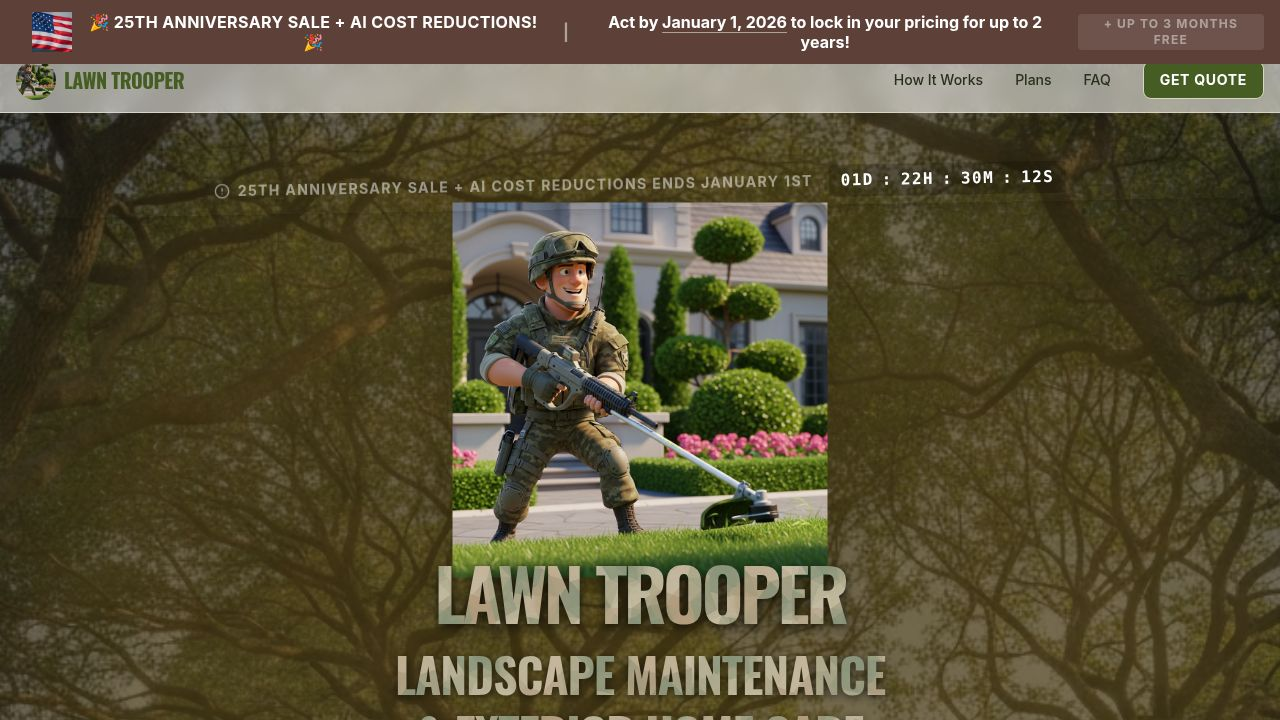
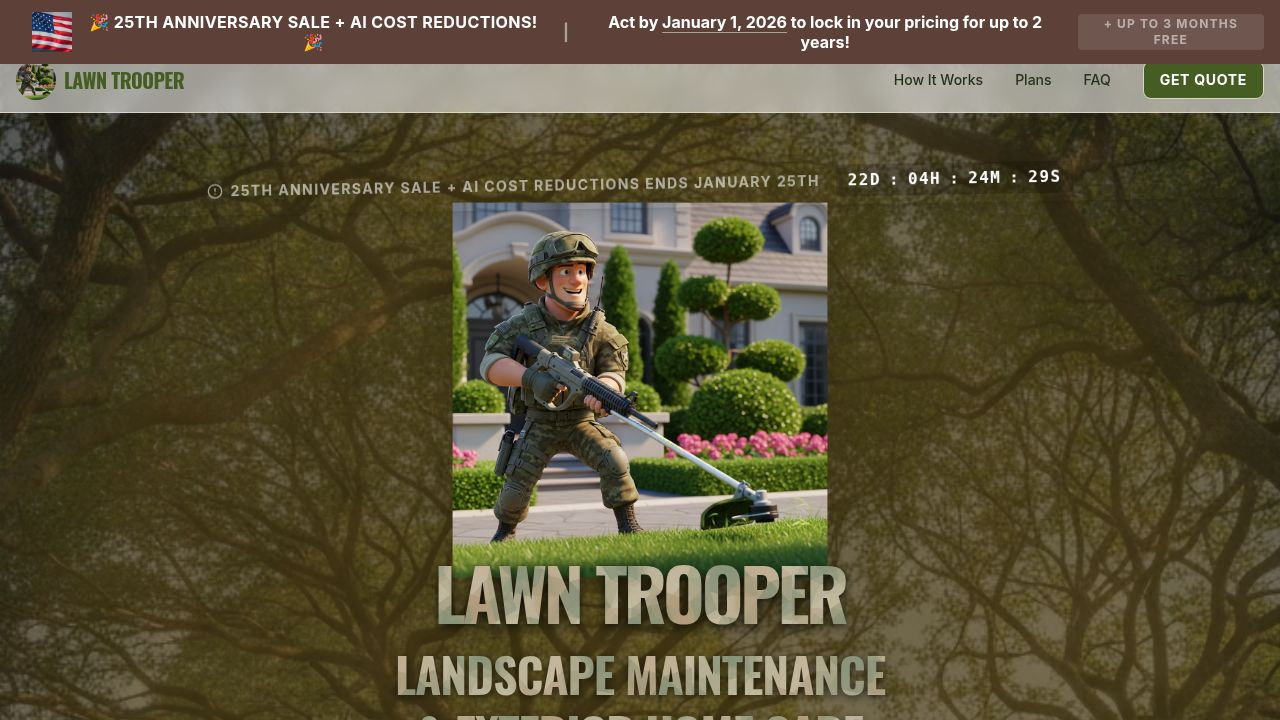
Update quote request form and email notifications
Refactors the quote request form to include plan details and updates email notifications to reflect selected services. Validates phone number based on contact method.

Replit-Commit-Author: Agent
Replit-Commit-Session-Id: 98804751-9cd9-4bf8-8eb9-a989a7d65f20
Replit-Commit-Checkpoint-Type: intermediate_checkpoint
Replit-Commit-Event-Id: 8e6d4bb4-b863-4e94-832b-a26821d565bf
Replit-Commit-Screenshot-Url: https://storage.googleapis.com/screenshot-production-us-central1/272d6f3a-6d6e-4d82-9048-783487746b88/98804751-9cd9-4bf8-8eb9-a989a7d65f20/drhmOI9
Replit-Helium-Checkpoint-Created: true

Changed region(s): [[0.1562, 0.2139, 0.8438, 0.275]]

diff --git a/server/email.ts b/server/email.ts
@@ -21,6 +21,36 @@ function getResendClient() {
   };
 }
 
+// Plan name mapping
+const PLAN_NAMES: Record<string, string> = {
+  basic: "Basic Patrol",
+  premium: "Premium Patrol",
+  executive: "Executive Patrol"
+};
+
+// Add-on label mapping
+const ADDON_LABELS: Record<string, string> = {
+  extra_bush_trimming: "Extra Bush Trimming",
+  shrub_fertilization: "Shrub Fertilization / Diseased Plant Application",
+  irrigation_check: "Full Irrigation Check/Diagnosis + Seasonal Activation & Winterization",
+  fire_ant_app: "Quarterly Fire Ant Applications",
+  quarterly_trash_bin_cleaning: "Quarterly Trash Bin Cleaning",
+  gutter_cleaning_first_floor: "Gutter Cleaning (First Floor Only)",
+  mulch_delivery_install_2yards: "Mulch Delivery + Installation (Up to 3 Yards)",
+  pine_straw_delivery_install_3yards: "Pine Straw Delivery + Installation (Up to 4 Yards)",
+  basic_flower_install: "Basic Flower Install (Fall Only)",
+  basic_christmas_lights: "Basic Christmas Light Package",
+  extra_weed_control: "Extra Weed Control + Fire Ant",
+  pest_control: "Quarterly Pest Control Applications",
+  aeration_overseeding: "Aeration + Overseeding",
+  pressure_washing: "Driveway & Sidewalk Pressure Washing",
+  mulch_delivery_install_over2yards: "Mulch Delivery + Installation (Up to 8 Yards)",
+  pine_straw_delivery_install_over3yards: "Pine Straw Delivery + Installation (Up to 10 Yards)",
+  premium_flower_install: "Premium Flower Install (Spring or 2 Seasons)",
+  bimonthly_trash_bin_cleaning: "Monthly Trash Bin Cleaning",
+  christmas_lights_premium: "Christmas Light Premium Package"
+};
+
 export interface QuoteRequestData {
   name: string;
   email: string;
@@ -28,20 +58,34 @@ export interface QuoteRequestData {
   address: string;
   contactMethod: string;
   notes?: string;
+  yardSize: string;
+  plan: string;
+  basicAddons: string[];
+  premiumAddons: string[];
+}
+
+function formatAddons(addons: string[]): string {
+  if (!addons || addons.length === 0) return "None selected";
+  return addons.map(id => ADDON_LABELS[id] || id).join(", ");
 }
 
 export async function sendQuoteEmails(data: QuoteRequestData) {
   const { client, fromEmail } = getResendClient();
+
+  const planName = PLAN_NAMES[data.plan] || data.plan;
+  const basicAddonsFormatted = formatAddons(data.basicAddons);
+  const premiumAddonsFormatted = formatAddons(data.premiumAddons);
 
   // Email to Lawn Trooper (using verified email until domain is set up)
   // Change to 'lawntrooperllc@gmail.com' once domain is verified
   const businessEmail = {
     from: fromEmail,
     to: 'jclaxtonlandscapes@gmail.com',
-    subject: `New Quote Request from ${data.name}`,
+    subject: `New Quote Request from ${data.name} - ${planName}`,
     html: `
       <h2>New Quote Request</h2>
-      <p><strong>Customer Information:</strong></p>
+      
+      <h3 style="color: #2E7D32; border-bottom: 2px solid #2E7D32; padding-bottom: 8px;">Customer Information</h3>
       <ul>
         <li><strong>Name:</strong> ${data.name}</li>
         <li><strong>Email:</strong> ${data.email || 'Not provided'}</li>
@@ -50,10 +94,18 @@ export async function sendQuoteEmails(data: QuoteRequestData) {
         <li><strong>Preferred Contact:</strong> ${data.contactMethod}</li>
       </ul>
       
-      ${data.notes ? `<p><strong>Special Instructions / Notes:</strong><br/>${data.notes}</p>` : ''}
+      <h3 style="color: #5D4037; border-bottom: 2px solid #5D4037; padding-bottom: 8px;">Selected Plan Details</h3>
+      <ul>
+        <li><strong>Yard Size:</strong> ${data.yardSize} Acre</li>
+        <li><strong>Plan:</strong> ${planName}</li>
+        <li><strong>Basic Add-ons:</strong> ${basicAddonsFormatted}</li>
+        <li><strong>Premium Add-ons:</strong> ${premiumAddonsFormatted}</li>
+      </ul>
+      
+      ${data.notes ? `<h3 style="color: #666;">Special Instructions / Notes</h3><p>${data.notes}</p>` : ''}
       
       <p style="margin-top: 20px; padding: 10px; background: #f5f5f5; border-radius: 4px;">
-        <strong>Next Steps:</strong> Contact this customer to schedule a consultation and discuss plan options.
+        <strong>Next Steps:</strong> Contact this customer to schedule a consultation and finalize their plan.
       </p>
       
       <p style="margin-top: 20px; color: #666; font-size: 12px;">
@@ -70,23 +122,23 @@ export async function sendQuoteEmails(data: QuoteRequestData) {
     html: `
       <h2>Thank you for your quote request!</h2>
       <p>Hi ${data.name},</p>
-      <p>We've received your request for lawn care services. Our Account Commander will review your property information and contact you shortly via your preferred method (${data.contactMethod}) to schedule a consultation.</p>
+      <p>We've received your request for lawn care services. Our Account Commander will review your information and contact you shortly via your preferred method (${data.contactMethod}) to schedule a consultation.</p>
       
-      <p><strong>Your Request Summary:</strong></p>
+      <h3 style="color: #2E7D32; border-bottom: 2px solid #2E7D32; padding-bottom: 8px;">Your Selected Plan</h3>
       <ul>
         <li><strong>Address:</strong> ${data.address}</li>
-        <li><strong>Preferred Contact:</strong> ${data.contactMethod}</li>
+        <li><strong>Yard Size:</strong> ${data.yardSize} Acre</li>
+        <li><strong>Plan:</strong> ${planName}</li>
+        <li><strong>Basic Add-ons:</strong> ${basicAddonsFormatted}</li>
+        <li><strong>Premium Add-ons:</strong> ${premiumAddonsFormatted}</li>
       </ul>
       
-      <p>During your consultation, we'll discuss:</p>
-      <ul>
-        <li>Your property size and specific needs</li>
-        <li>The best plan for your yard (Basic, Premium, or Executive)</li>
-        <li>Available add-on services</li>
-        <li>Current promotional offers</li>
-      </ul>
+      <p style="margin-top: 20px; padding: 15px; background: #E8F5E9; border-radius: 8px; border-left: 4px solid #2E7D32;">
+        <strong>What's Next?</strong><br/>
+        During your consultation, we'll confirm your yard size, discuss any special needs, and finalize your plan. Current promotional offers will be applied at signup!
+      </p>
       
-      <p>We typically respond within 24 hours. If you have any urgent questions, feel free to call us directly.</p>
+      <p>We typically respond within 24 hours. If you have any urgent questions, feel free to contact us directly.</p>
       
       <p>Thank you for choosing Lawn Trooper!</p>
       
@@ -103,6 +155,7 @@ export async function sendQuoteEmails(data: QuoteRequestData) {
     console.log('From email:', fromEmail);
     console.log('To business:', businessEmail.to);
     console.log('To customer:', customerEmail?.to || 'No email provided');
+    console.log('Plan data:', { yardSize: data.yardSize, plan: data.plan, basicAddons: data.basicAddons, premiumAddons: data.premiumAddons });
     
     // Always send business email
     const businessResult = await client.emails.send(businessEmail);

diff --git a/client/src/pages/home.tsx b/client/src/pages/home.tsx
@@ -1,4 +1,4 @@
-import { useState, useEffect } from "react";
+import React, { useState, useEffect } from "react";
 import { motion, AnimatePresence } from "framer-motion";
 import { useForm } from "react-hook-form";
 import { z } from "zod";
@@ -169,6 +169,11 @@ const formSchema = z.object({
   phone: z.string().optional(),
   email: z.string().email("Please enter a valid email address").or(z.literal("")),
   notes: z.string().optional(),
+  // Plan selection fields
+  yardSize: z.string(),
+  plan: z.string(),
+  basicAddons: z.array(z.string()),
+  premiumAddons: z.array(z.string()),
 }).superRefine((data, ctx) => {
   if ((data.contactMethod === "text" || data.contactMethod === "phone") && !data.phone) {
     ctx.addIssue({
@@ -213,8 +218,20 @@ export default function LandingPage() {
       address: "",
       contactMethod: "email",
       notes: "",
+      yardSize: builderYardSize,
+      plan: builderPlan,
+      basicAddons: builderBasicAddons,
+      premiumAddons: builderPremiumAddons,
     },
   });
+  
+  // Keep form in sync with plan builder selections
+  React.useEffect(() => {
+    form.setValue("yardSize", builderYardSize);
+    form.setValue("plan", builderPlan);
+    form.setValue("basicAddons", builderBasicAddons);
+    form.setValue("premiumAddons", builderPremiumAddons);
+  }, [builderYardSize, builderPlan, builderBasicAddons, builderPremiumAddons, form]);
 
   const selectedContactMethod = form.watch("contactMethod");
 
@@ -247,7 +264,16 @@ export default function LandingPage() {
           address: "",
           contactMethod: "email",
           notes: "",
+          yardSize: "1/3",
+          plan: "basic",
+          basicAddons: [],
+          premiumAddons: [],
         });
+        // Reset plan builder state
+        setBuilderYardSize("1/3");
+        setBuilderPlan("basic");
+        setBuilderBasicAddons([]);
+        setBuilderPremiumAddons([]);
       } else {
         toast({
           title: "Error",
@@ -289,7 +315,7 @@ export default function LandingPage() {
            </div>
            <span className="uppercase tracking-wide md:pl-16">🎉 25th Anniversary Sale + AI Cost Reductions! 🎉</span>
            <span className="hidden md:inline mx-2 text-white/50">|</span>
-           <span>Act by <span className="underline decoration-white/50 underline-offset-4">January 1, 2026</span> to lock in your pricing for up to 2 years!</span>
+           <span>Act by <span className="underline decoration-white/50 underline-offset-4">January 25, 2026</span> to lock in your pricing for up to 2 years!</span>
            <span className="bg-white/20 px-2 py-0.5 rounded text-xs uppercase tracking-widest ml-1 animate-pulse">
              + Up to 3 Months Free
            </span>
@@ -465,7 +491,7 @@ export default function LandingPage() {
             <div className="mb-10 bg-black/70 backdrop-blur-md border-2 border-accent/50 p-6 rounded-xl shadow-2xl relative overflow-hidden">
                {/* Diagonal "Ending Soon" Banner */}
                <div className="absolute top-0 right-0 bg-destructive text-white text-[10px] font-bold px-8 py-1 transform translate-x-8 translate-y-3 rotate-45 shadow-sm">
-                 ENDS JAN 1ST
+                 ENDS JAN 25TH
                </div>
 
                <div className="flex flex-col items-center justify-center gap-2 border-b border-accent/30 pb-4 mb-4">
@@ -475,7 +501,7 @@ export default function LandingPage() {
                    <Star className="fill-accent w-6 h-6 animate-pulse" /> 
                  </div>
                  <p className="text-white/90 font-medium text-sm bg-accent/10 px-3 py-1 rounded-full border border-accent/20">
-                   ⚠ Lock in lowest pricing for up to 2 years - Ends Jan 1st!
+                   ⚠ Lock in lowest pricing for up to 2 years - Ends Jan 25th!
                  </p>
                </div>
                
@@ -487,7 +513,7 @@ export default function LandingPage() {
                    </div>
                    <div className="flex items-center gap-2 mb-1">
                      <Calendar className="w-4 h-4 text-accent" />
-                     <span className="text-accent font-bold uppercase text-xs">Sign Up By Jan 1st</span>
+                     <span className="text-accent font-bold uppercase text-xs">Sign Up By Jan 25th</span>
                    </div>
                    <div className="text-white text-sm font-medium">
                      <div className="flex justify-between items-center mb-1"><span>2-Year Pact:</span> <span className="text-green-400 font-bold bg-green-900/40 px-1.5 rounded">3 Months Free</span></div>
@@ -786,8 +812,18 @@ export default function LandingPage() {
                           </div>
                         ))}
                       </div>
-                      <ul className="space-y-2 max-h-64 overflow-y-auto">
-                        {builderPlanData?.features.map((feature, i) => {
+                      <ul className="space-y-2">
+                        {/* Sort features: included first, then not included */}
+                        {builderPlanData?.features
+                          .slice()
+                          .sort((a, b) => {
+                            const aNotIncluded = a.includes("Not Included");
+                            const bNotIncluded = b.includes("Not Included");
+                            if (aNotIncluded && !bNotIncluded) return 1;
+                            if (!aNotIncluded && bNotIncluded) return -1;
+                            return 0;
+                          })
+                          .map((feature, i) => {
                           const isNotIncluded = feature.includes("Not Included");
                           return (
                             <li key={i} className={`flex items-start gap-2 text-sm ${isNotIncluded ? 'opacity-50' : ''}`}>

diff --git a/server/routes.ts b/server/routes.ts
@@ -4,7 +4,7 @@ import { storage } from "./storage";
 import { sendQuoteEmails, type QuoteRequestData } from "./email";
 import { z } from "zod";
 
-// Quote request validation schema (simplified - plan/addons selected during consultation)
+// Quote request validation schema (includes plan selection)
 const quoteRequestSchema = z.object({
   name: z.string().min(2),
   email: z.string().email().or(z.literal("")),
@@ -12,7 +12,19 @@ const quoteRequestSchema = z.object({
   address: z.string().min(5),
   contactMethod: z.enum(["text", "phone", "email", "either"]),
   notes: z.string().optional(),
+  // Plan selection fields
+  yardSize: z.string(),
+  plan: z.string(),
+  basicAddons: z.array(z.string()),
+  premiumAddons: z.array(z.string()),
 }).superRefine((data, ctx) => {
+  if ((data.contactMethod === "text" || data.contactMethod === "phone") && !data.phone) {
+    ctx.addIssue({
+      code: z.ZodIssueCode.custom,
+      message: "Phone number is required for this contact method",
+      path: ["phone"],
+    });
+  }
   if (data.contactMethod === "email" && !data.email) {
     ctx.addIssue({
       code: z.ZodIssueCode.custom,
@@ -42,7 +54,8 @@ export async function registerRoutes(
       // Send emails via Resend
       const result = await sendQuoteEmails(data as QuoteRequestData);
 
-      if (result.businessEmailSent && result.customerEmailSent) {
+      // Success if business email was sent (customer email is optional)
+      if (result.businessEmailSent) {
         res.json({ 
           success: true, 
           message: "Quote request sent successfully" 
@@ -50,7 +63,7 @@ export async function registerRoutes(
       } else {
         res.status(500).json({ 
           success: false, 
-          message: "Failed to send one or more emails" 
+          message: "Failed to send quote request email" 
         });
       }
     } catch (error) {

diff --git a/client/src/data/plans.ts b/client/src/data/plans.ts
@@ -1,7 +1,7 @@
 export const PROMO_CONFIG = {
   executiveBonusEnabled: true,
-  cutoffDate: "2026-01-01T23:59:59", // Sale ends Jan 1st at 11:59 PM (end of day)
-  saleLabel: "25th Anniversary Sale + AI Cost Reductions Ends January 1st"
+  cutoffDate: "2026-01-25T23:59:59", // Sale ends Jan 25th at 11:59 PM (end of day)
+  saleLabel: "25th Anniversary Sale + AI Cost Reductions Ends January 25th"
 };
 
 export const GLOBAL_CONSTANTS = {
